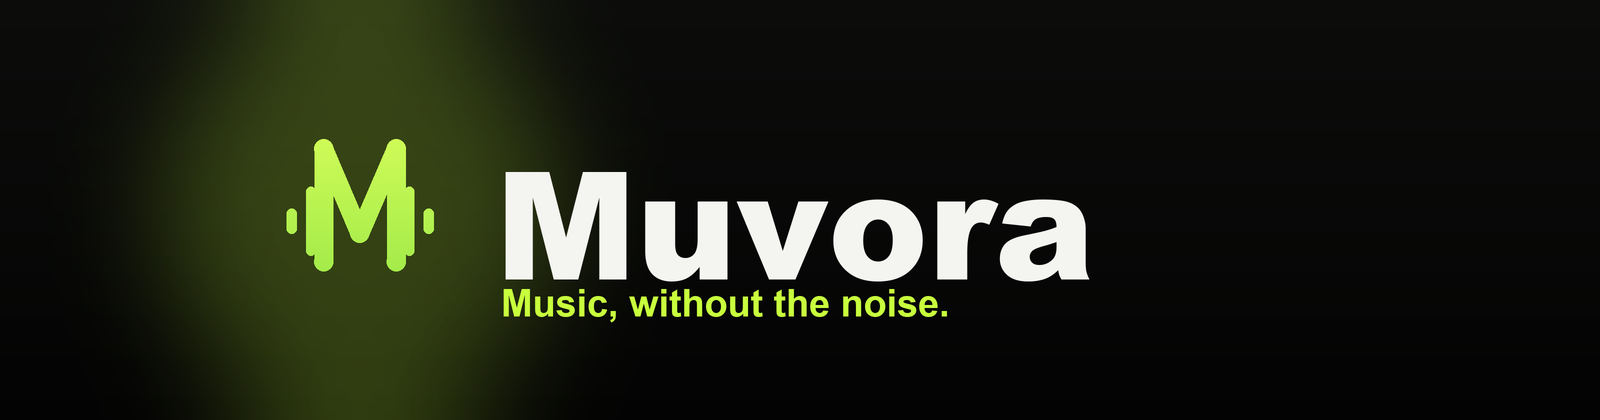
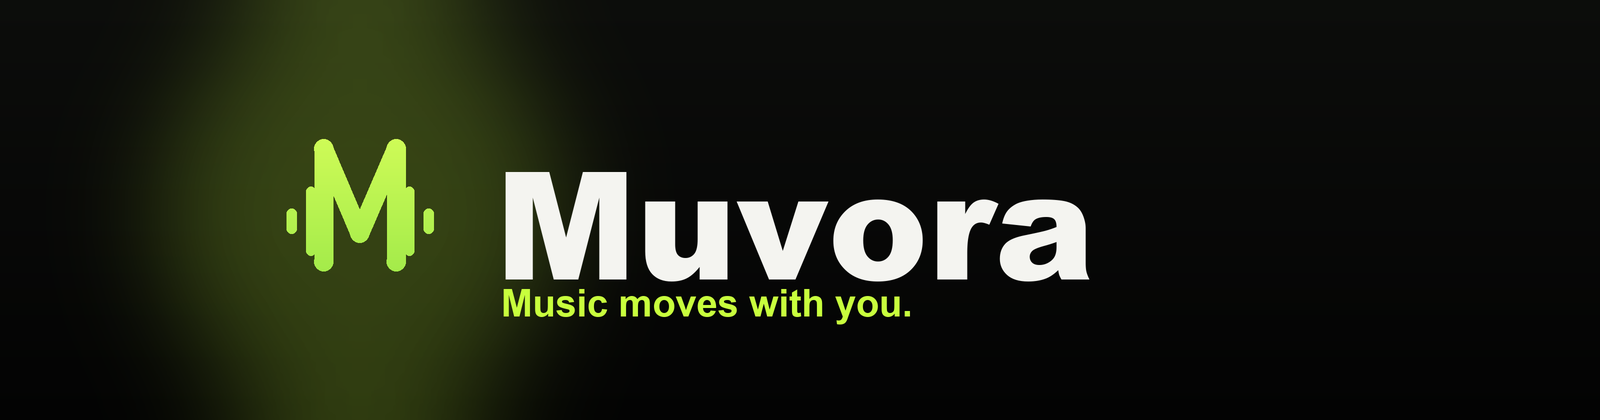
New tagline: Music moves with you

Changed region(s): [[0.375, 0.681, 0.5938, 0.7738]]

diff --git a/website/index.html b/website/index.html
@@ -3,7 +3,7 @@
   <head>
     <meta charset="UTF-8" />
     <meta name="viewport" content="width=device-width, initial-scale=1.0, viewport-fit=cover" />
-    <title>Muvora: music, without the noise</title>
+    <title>Muvora: music moves with you</title>
     <meta
       name="description"
       content="Muvora is a free, open-source music player for Android. Stream YouTube Music, play local files, download for offline and follow word-synced lyrics."
@@ -16,7 +16,7 @@
     <meta property="og:type" content="website" />
     <meta property="og:site_name" content="Muvora" />
     <meta property="og:url" content="https://muvora.pages.dev/" />
-    <meta property="og:title" content="Muvora: music, without the noise" />
+    <meta property="og:title" content="Muvora: music moves with you" />
     <meta property="og:description" content="A free, open-source music player for Android." />
     <!-- Absolute URL: WhatsApp and most scrapers reject a relative og:image. -->
     <meta property="og:image" content="https://muvora.pages.dev/og.png" />
@@ -24,9 +24,9 @@
     <meta property="og:image:type" content="image/png" />
     <meta property="og:image:width" content="1200" />
     <meta property="og:image:height" content="630" />
-    <meta property="og:image:alt" content="Muvora - music, without the noise" />
+    <meta property="og:image:alt" content="Muvora - music moves with you" />
     <meta name="twitter:card" content="summary_large_image" />
-    <meta name="twitter:title" content="Muvora: music, without the noise" />
+    <meta name="twitter:title" content="Muvora: music moves with you" />
     <meta name="twitter:description" content="A free, open-source music player for Android." />
     <meta name="twitter:image" content="https://muvora.pages.dev/og.png" />
 

diff --git a/website/src/sections/hero.tsx b/website/src/sections/hero.tsx
@@ -122,9 +122,9 @@ export function Hero() {
             style={{ animationDelay: "420ms" }}
           >
             <p className="text-[clamp(2.3rem,10.5vw,3.6rem)] font-extrabold uppercase leading-[0.92] tracking-[-0.045em] lg:text-[clamp(2rem,4.2vw,3.6rem)]">
-              <span className="block text-primary">Music,</span>
-              <span className="block text-white">without the</span>
-              <span className="block text-primary">noise.</span>
+              <span className="block text-primary">Music</span>
+              <span className="block text-white">moves</span>
+              <span className="block text-primary">with you.</span>
             </p>
             <div className="mt-4 border-l-[3px] border-primary pl-3">
               <p className="text-sm font-extrabold uppercase tracking-tight text-primary">Muvora for Android</p>

diff --git a/scripts/make_banner.py b/scripts/make_banner.py
@@ -86,7 +86,7 @@ def main():
     d.text((wx, wy), "Muvora", font=word, fill=WHITE)
 
     tag = ImageFont.truetype(FB, int(38 * SS))
-    d.text((wx + int(6 * SS), wy + int(168 * SS)), "Music, without the noise.", font=tag, fill=LIME)
+    d.text((wx + int(6 * SS), wy + int(168 * SS)), "Music moves with you.", font=tag, fill=LIME)
 
     out = img.convert("RGB").resize((W, H), Image.LANCZOS)
     out.save(OUT)

diff --git a/scripts/make_og.py b/scripts/make_og.py
@@ -132,7 +132,7 @@ def main():
 
     # --- tagline ---
     tag = font(FB, int(40 * SS))
-    d.text((int(152 * SS), int(432 * SS)), "Music, without the noise.", font=tag, fill=LIME)
+    d.text((int(152 * SS), int(432 * SS)), "Music moves with you.", font=tag, fill=LIME)
 
     sub = font(FB, int(26 * SS))
     d.text((int(152 * SS), int(486 * SS)),

diff --git a/README.md b/README.md
@@ -7,7 +7,7 @@
 
 # Muvora
 
-### Music, without the noise.
+### Music moves with you.
 
 <br/>
 
